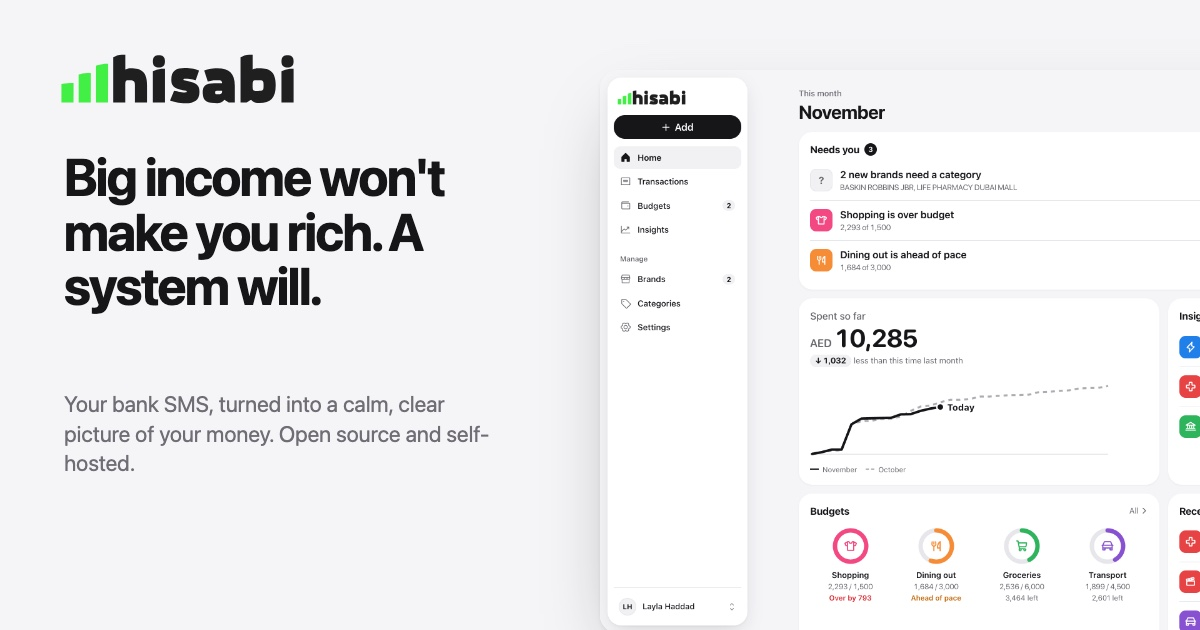
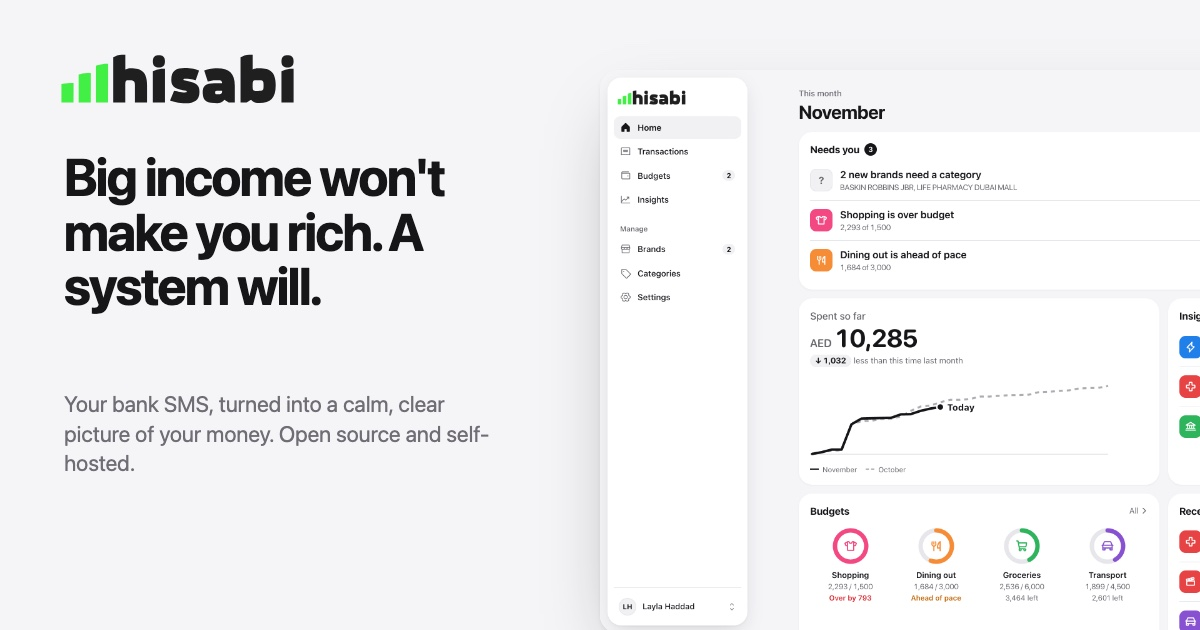
Fix /story and /privacy 404s and refresh the app screenshots
- Export each page as a folder (trailingSlash) so nginx serves /story,
  /privacy and /thanks instead of only story.html
- Point nav and footer links at the trailing-slash paths and keep the
  active nav state working
- Set metadataBase so social cards use https://hisabi.saleem.dev
  instead of localhost:3000
- Re-shoot the home, phone and detail screenshots and the social image
  with Add in the page header and black buttons

Changed region(s): [[0.4933, 0.181, 0.6167, 0.3317], [0.4933, 0.3619, 0.555, 0.5429]]

diff --git a/src/components/blocks/navbar.tsx b/src/components/blocks/navbar.tsx
@@ -35,9 +35,12 @@ const ITEMS = [
       },
     ],
   },
-  { label: "Story", href: "/story" },
+  { label: "Story", href: "/story/" },
   { label: "Get notified", href: "/#get-notified" },
 ];
+
+// Pages are exported with a trailing slash; compare paths without it
+const samePath = (a: string | null, b: string) => (a ?? "").replace(/\/$/, "") === b.replace(/\/$/, "");
 
 export const Navbar = () => {
   const [isMenuOpen, setIsMenuOpen] = useState(false);
@@ -95,7 +98,7 @@ export const Navbar = () => {
                     href={link.href}
                     className={cn(
                       "relative bg-transparent px-1.5 text-sm font-medium transition-opacity hover:opacity-75",
-                      pathname === link.href && "text-muted-foreground",
+                      samePath(pathname, link.href) && "text-muted-foreground",
                     )}
                   >
                     {link.label}
@@ -210,7 +213,7 @@ export const Navbar = () => {
                 href={link.href}
                 className={cn(
                   "text-primary hover:text-primary/80 py-4 text-base font-medium transition-colors first:pt-0 last:pb-0",
-                  pathname === link.href && "text-muted-foreground",
+                  samePath(pathname, link.href) && "text-muted-foreground",
                 )}
                 onClick={() => setIsMenuOpen(false)}
               >

diff --git a/src/components/blocks/footer.tsx b/src/components/blocks/footer.tsx
@@ -8,9 +8,9 @@ import { Button } from "@/components/ui/button";
 export function Footer() {
   const navigation = [
     { name: "Features", href: "/#features" },
-    { name: "Story", href: "/story" },
+    { name: "Story", href: "/story/" },
     { name: "Get notified", href: "/#get-notified" },
-    { name: "Privacy Policy", href: "/privacy" },
+    { name: "Privacy Policy", href: "/privacy/" },
   ];
 
   return (

diff --git a/src/app/layout.tsx b/src/app/layout.tsx
@@ -10,6 +10,8 @@ import { ThemeProvider } from "@/components/theme-provider";
 import "@/styles/globals.css";
 
 export const metadata: Metadata = {
+  // Social cards need absolute image URLs; without this they point at localhost
+  metadataBase: new URL("https://hisabi.saleem.dev"),
   title: {
     default: "Hisabi - Your Personal Finance System",
     template: "%s | Hisabi",

diff --git a/next.config.ts b/next.config.ts
@@ -3,6 +3,9 @@ import type { NextConfig } from "next";
 
 const nextConfig: NextConfig = {
   output: "export",
+  // Export each page as a folder (story/index.html) so plain static hosts like nginx serve /story,
+  // which they don't for story.html
+  trailingSlash: true,
   pageExtensions: ["js", "jsx", "mdx", "ts", "tsx"],
   images: {
     unoptimized: true,
